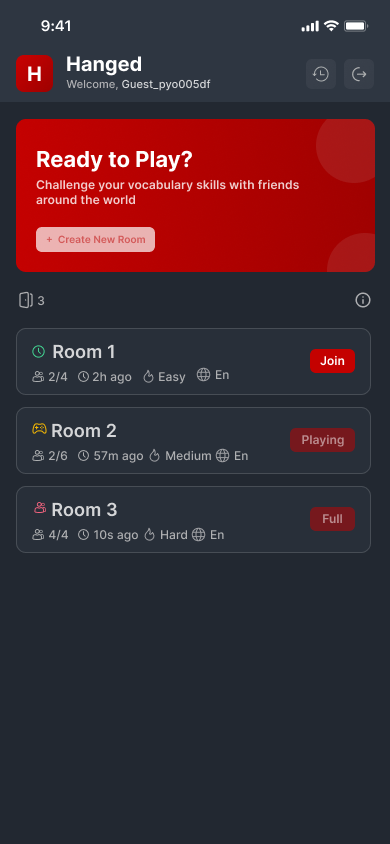
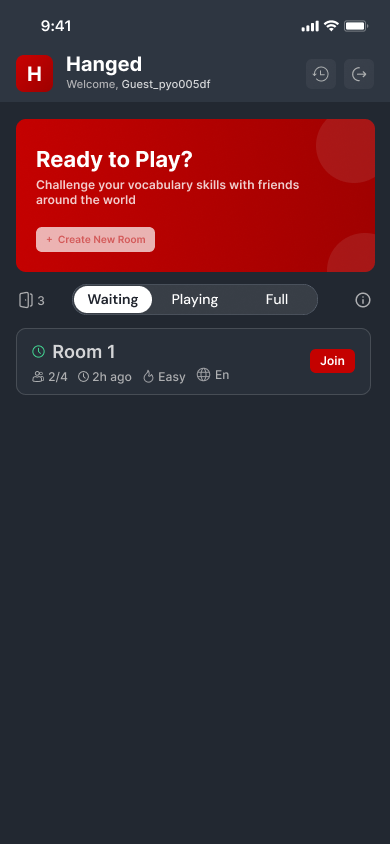
update app screenshots and README.md

diff --git a/README.md b/README.md
@@ -1,4 +1,13 @@
-## 🪓 Hanged – Multiplayer Hangman Game
+# 🪓 Hanged – Multiplayer Hangman Game
+
+### 🎮 Overview
+
+**Hanged** is a real-time multiplayer Hangman game built with **Jetpack Compose**, **Clean
+Architecture**, and **Firebase**.  
+Players can create or join rooms, play together in real-time via **WebSocket (Socket.IO)**, and
+track their game history and leaderboard position.
+
+---
 
 ### 🧩 App Thumbnail
 <img src="screenshots/hanged_thumbnail.png"/>
@@ -11,10 +20,43 @@
 |--------|--------|----------|
 | <img src="screenshots/splash_screen.png" width="250"/> | <img src="screenshots/login_screen.png" width="250"/> | <img src="screenshots/register_screen.png" width="250"/> |
 
-| Home | Game Detail | In-Game |
-|------|--------------|---------|
-| <img src="screenshots/home_screen.png" width="250"/> | <img src="screenshots/game_detail.png" width="250"/> | <img src="screenshots/game_screen.png" width="250"/> |
+| Home                                                 | Game (not started)                                   | Game (started)                                        |
+|------------------------------------------------------|------------------------------------------------------|-------------------------------------------------------|
+| <img src="screenshots/home_screen.png" width="250"/> | <img src="screenshots/game_screen.png" width="250"/> | <img src="screenshots/game_screen2.png" width="250"/> |
 
-| In-Game 2 | Leaderboard | Game History |
-|------------|--------------|---------------|
-| <img src="screenshots/game_screen2.png" width="250"/> | <img src="screenshots/leaderboard.png" width="250"/> | <img src="screenshots/game_history.png" width="250"/> |
+| Room Status Guide                                          | Players                                          | Game History                                          |
+|------------------------------------------------------------|--------------------------------------------------|-------------------------------------------------------|
+| <img src="screenshots/room_status_guide.png" width="250"/> | <img src="screenshots/players.png" width="250"/> | <img src="screenshots/game_history.png" width="250"/> |
+
+| Leaderboard                                          |
+|------------------------------------------------------|
+| <img src="screenshots/leaderboard.png" width="250"/> |
+
+---
+
+## ⚙ Tech Stack
+
+| Category                 | Technologies                              |
+|--------------------------|-------------------------------------------|
+| **Language**             | Kotlin                                    |
+| **Architecture**         | Clean Architecture + MVI                  |
+| **UI**                   | Jetpack Compose, Material Design 3        |
+| **Backend**              | Firebase (Auth, Firestore, Storage)       |
+| **Realtime**             | WebSocket (Socket.IO)                     |
+| **Dependency Injection** | Hilt                                      |
+| **Local Storage**        | DataStore                                 |
+| **Networking**           | Retrofit                                  |
+| **Coroutines / Flow**    | For async operations and state management |
+| **Animations**           | Lottie Animations                         |
+
+---
+
+## 🚀 Features
+
+- 👥 **Multiplayer gameplay** via WebSocket
+- 🔐 **Firebase Authentication** (Email/Password)
+- 💬 **Real-time communication** between players
+- 🏆 **Leaderboard and history tracking**
+- ⚡ **Clean Architecture + MVI** ensures scalability and maintainability
+
+
